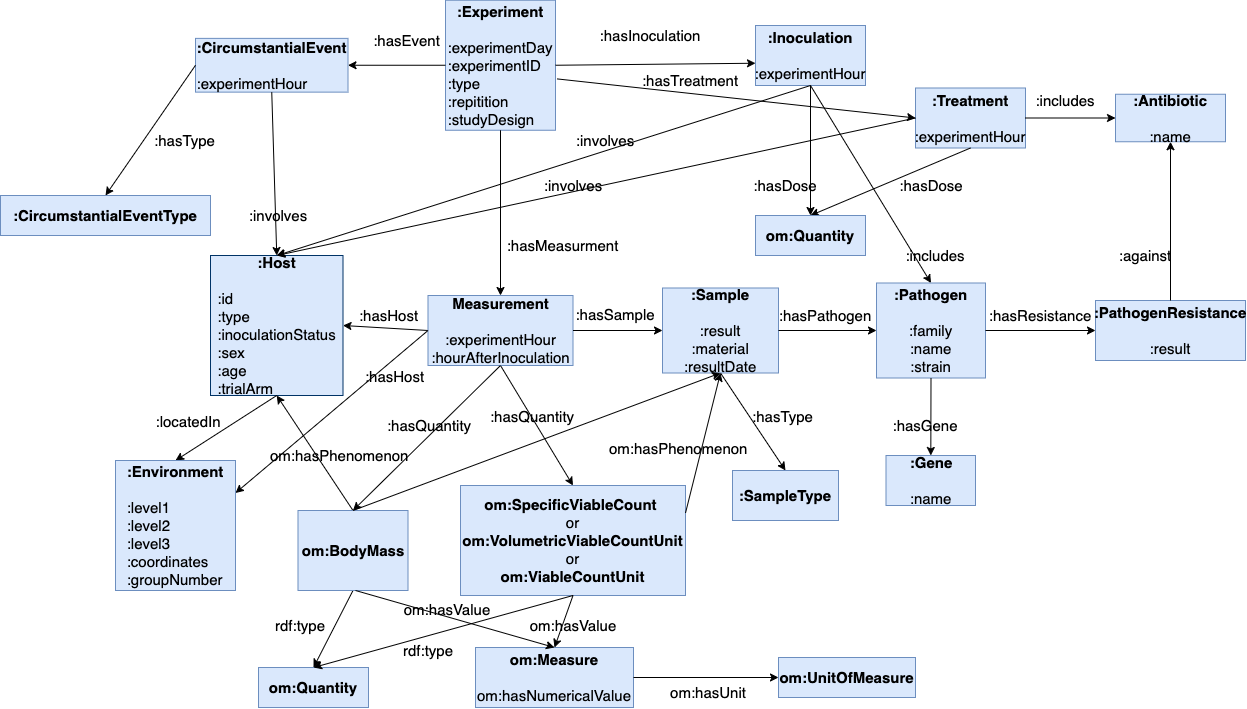
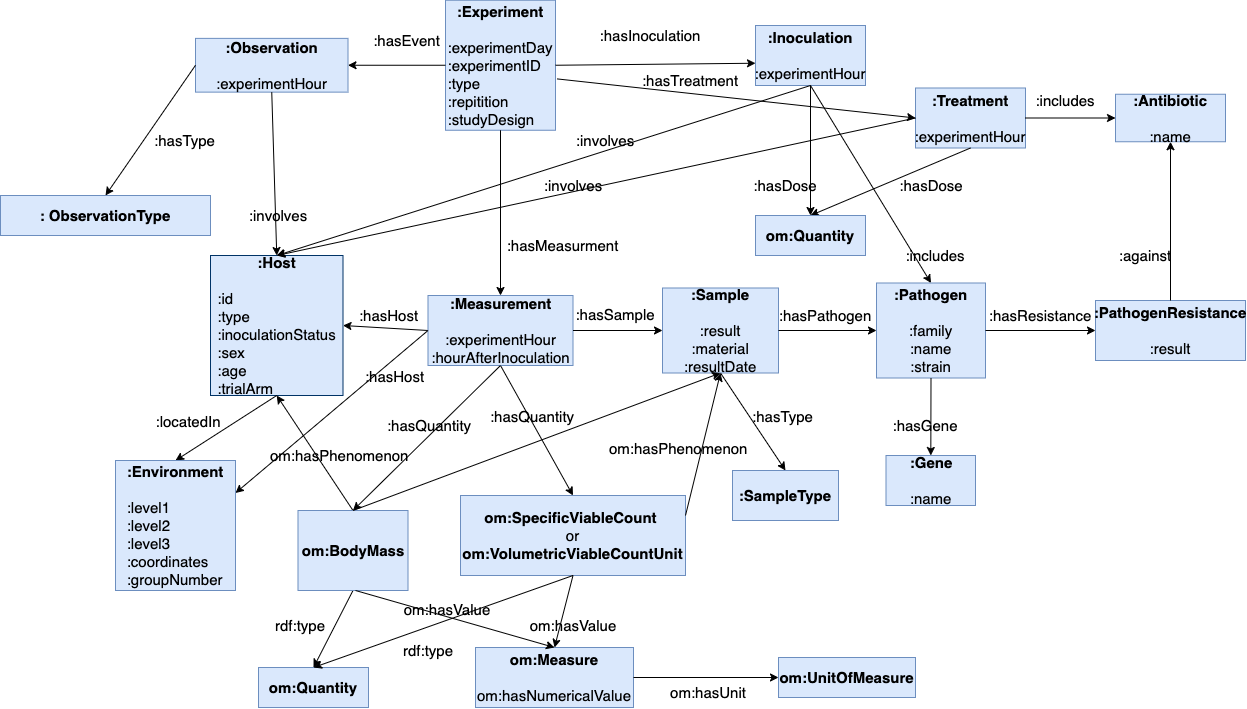
Updated documentaion

diff --git a/docs/sections/crossref-en.html b/docs/sections/crossref-en.html
@@ -51,6 +51,11 @@ This section provides details for each class and property defined by .
          </a>
       </li>
       <li>
+         <a href="#http://www.purl.org/infection_trans#Observation" title="http://www.purl.org/infection_trans#Observation">
+            <span>observation</span>
+         </a>
+      </li>
+      <li>
          <a href="#http://www.purl.org/infection_trans#ObservationType"
             title="http://www.purl.org/infection_trans#ObservationType">
             <span>observation type</span>
@@ -367,6 +372,30 @@ This section provides details for each class and property defined by .
          </dd>
       </dl>
    </div>
+   <div class="entity" id="http://www.purl.org/infection_trans#Observation">
+      <h3>observation<sup class="type-c" title="class">c</sup>
+         <span class="backlink"> back to <a href="#toc">ToC</a> or <a href="#classes">Class ToC</a>
+         </span>
+      </h3>
+      <p>
+         <strong>IRI:</strong> http://www.purl.org/infection_trans#Observation</p>
+      <div class="comment">
+         <span class="markdown">is a process of closely  monitoring the host.</span>
+      </div>
+      <dl class="description">
+         <dt>is in domain of</dt>
+         <dd>
+            <a href="#http://www.purl.org/infection_trans#hasType" title="http://www.purl.org/infection_trans#hasType">has type</a>
+            <sup class="type-op" title="object property">op</sup>, <a href="#http://www.purl.org/infection_trans#involves" title="http://www.purl.org/infection_trans#involves">involves</a>
+            <sup class="type-op" title="object property">op</sup>
+         </dd>
+         <dt>is in range of</dt>
+         <dd>
+            <a href="#http://www.purl.org/infection_trans#hasEvent" title="http://www.purl.org/infection_trans#hasEvent">has event</a>
+            <sup class="type-op" title="object property">op</sup>
+         </dd>
+      </dl>
+   </div>
    <div class="entity" id="http://www.purl.org/infection_trans#ObservationType">
       <h3>observation type<sup class="type-c" title="class">c</sup>
          <span class="backlink"> back to <a href="#toc">ToC</a> or <a href="#classes">Class ToC</a>
@@ -375,7 +404,7 @@ This section provides details for each class and property defined by .
       <p>
          <strong>IRI:</strong> http://www.purl.org/infection_trans#ObservationType</p>
       <div class="comment">
-         <span class="markdown">is a process of closely  monitoring the host.</span>
+         <span class="markdown">type of observation . For example, 'Death' or 'HighFever'</span>
       </div>
       <dl class="description">
          <dt>is in range of</dt>
@@ -886,9 +915,7 @@ This section provides details for each class and property defined by .
             </dd>
             <dt>has range</dt>
             <dd>
-               <a href="http://www.purl.org/infection_trans#Observation"
-                  target="_blank"
-                  title="http://www.purl.org/infection_trans#Observation">observation</a>
+               <a href="#http://www.purl.org/infection_trans#Observation" title="http://www.purl.org/infection_trans#Observation">observation</a>
                <sup class="type-c" title="class">c</sup>
             </dd>
          </dl>
@@ -1146,9 +1173,7 @@ This section provides details for each class and property defined by .
          <dl>
             <dt>has domain</dt>
             <dd>
-               <a href="http://www.purl.org/infection_trans#Observation"
-                  target="_blank"
-                  title="http://www.purl.org/infection_trans#Observation">observation</a>
+               <a href="#http://www.purl.org/infection_trans#Observation" title="http://www.purl.org/infection_trans#Observation">observation</a>
                <sup class="type-c" title="class">c</sup>
             </dd>
             <dd>
@@ -1257,9 +1282,7 @@ This section provides details for each class and property defined by .
                <sup class="type-c" title="class">c</sup>
             </dd>
             <dd>
-               <a href="http://www.purl.org/infection_trans#Observation"
-                  target="_blank"
-                  title="http://www.purl.org/infection_trans#Observation">observation</a>
+               <a href="#http://www.purl.org/infection_trans#Observation" title="http://www.purl.org/infection_trans#Observation">observation</a>
                <sup class="type-c" title="class">c</sup>
             </dd>
             <dd>

diff --git a/docs/index.html b/docs/index.html
@@ -58,7 +58,7 @@ function loadTOC(){
 <div class="container">
 <div class="head">
 <div style="float:right">language <a href="index-en.html"><b>en</b></a> </div>
-<h1>Transmission Experiment Ontology</h1>
+<h1>Infection Transmission Ontology</h1>
 
 
 <dl>
@@ -72,7 +72,6 @@ function loadTOC(){
 <dt>Download Turtle serialization:</dt><dd><span><a href="https://raw.githubusercontent.com/UtrechtUniversity/summer-fair/master/src/create_ontology/map_ontology/trans_ont.owl" target="_blank"><img src="https://img.shields.io/badge/Format-TTL-blue.svg" alt="TTL" /></a> </span></dd><dt><a rel="license" href="http://creativecommons.org/licenses/by-nc-sa/2.0/"><img alt="Creative Commons License" style="border-width:0" src="https://i.creativecommons.org/l/by-nc-sa/2.0/88x31.png" /></a><br />This work is licensed under a <a rel="license" href="http://creativecommons.org/licenses/by-nc-sa/2.0/">Creative Commons Attribution-NonCommercial-ShareAlike 2.0 Generic License</a>.</dt>
 </dt><!-- <dt>Evaluation:</dt><dd><a href="OOPSEvaluation/oopsEval.html#" target="_blank"><img src="https://img.shields.io/badge/Evaluate_with-OOPS! (OntOlogy Pitfall Scanner!)-blue.svg" alt="Evaluate with OOPS!" /></a></dd> --></dl>
 
-<a href="provenance/provenance-en.html" target="_blank">Provenance of this page</a><hr/>
 </div>
 <div id="toc"></div>     <div id="introduction"></div>
      <div id="overview"></div>

diff --git a/docs/sections/description-en.html b/docs/sections/description-en.html
@@ -1,3 +1,10 @@
 <h2 id="desc" class="list">Description <span class="backlink"> back to <a href="#toc">ToC</a></span></h2>
 <span class="markdown">
-
+    <div id="figure_1_example" style="text-align: center;">
+									<img src="ontology/schema.png" width="50%" alt="Figure 1 example">
+									<div style="text-align: center;">
+									<a href="#figure_1_example">Figure 1</a>.
+									Schema of Infection Transmission Ontology.
+									</div>
+								</div>
+</span>span>

diff --git a/docs/sections/overview-en.html b/docs/sections/overview-en.html
@@ -51,6 +51,11 @@ This ontology has the following classes and properties.</span>
       </a>
    </li>
    <li>
+      <a href="#http://www.purl.org/infection_trans#Observation" title="http://www.purl.org/infection_trans#Observation">
+         <span>observation</span>
+      </a>
+   </li>
+   <li>
       <a href="#http://www.purl.org/infection_trans#ObservationType"
          title="http://www.purl.org/infection_trans#ObservationType">
          <span>observation type</span>
